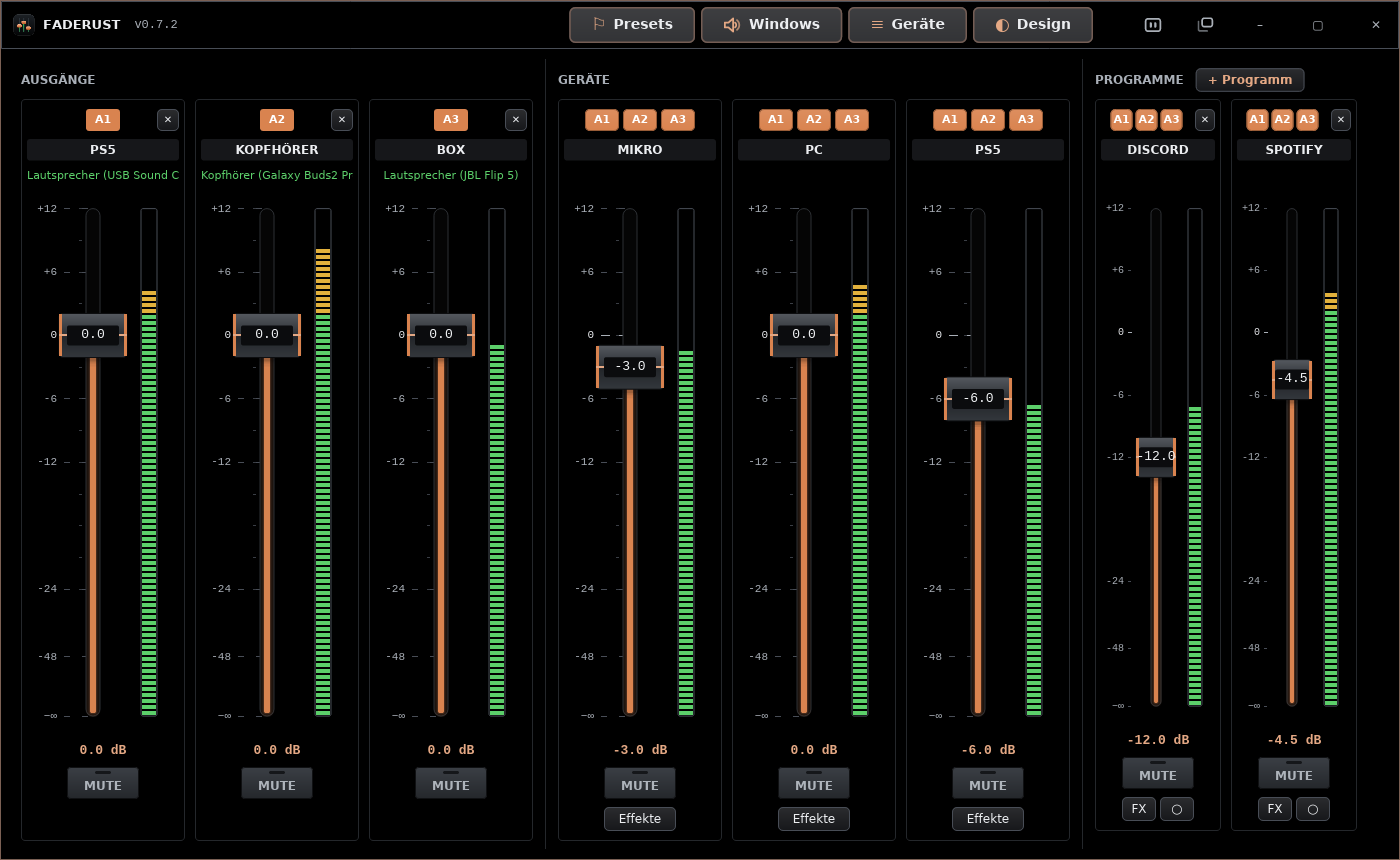
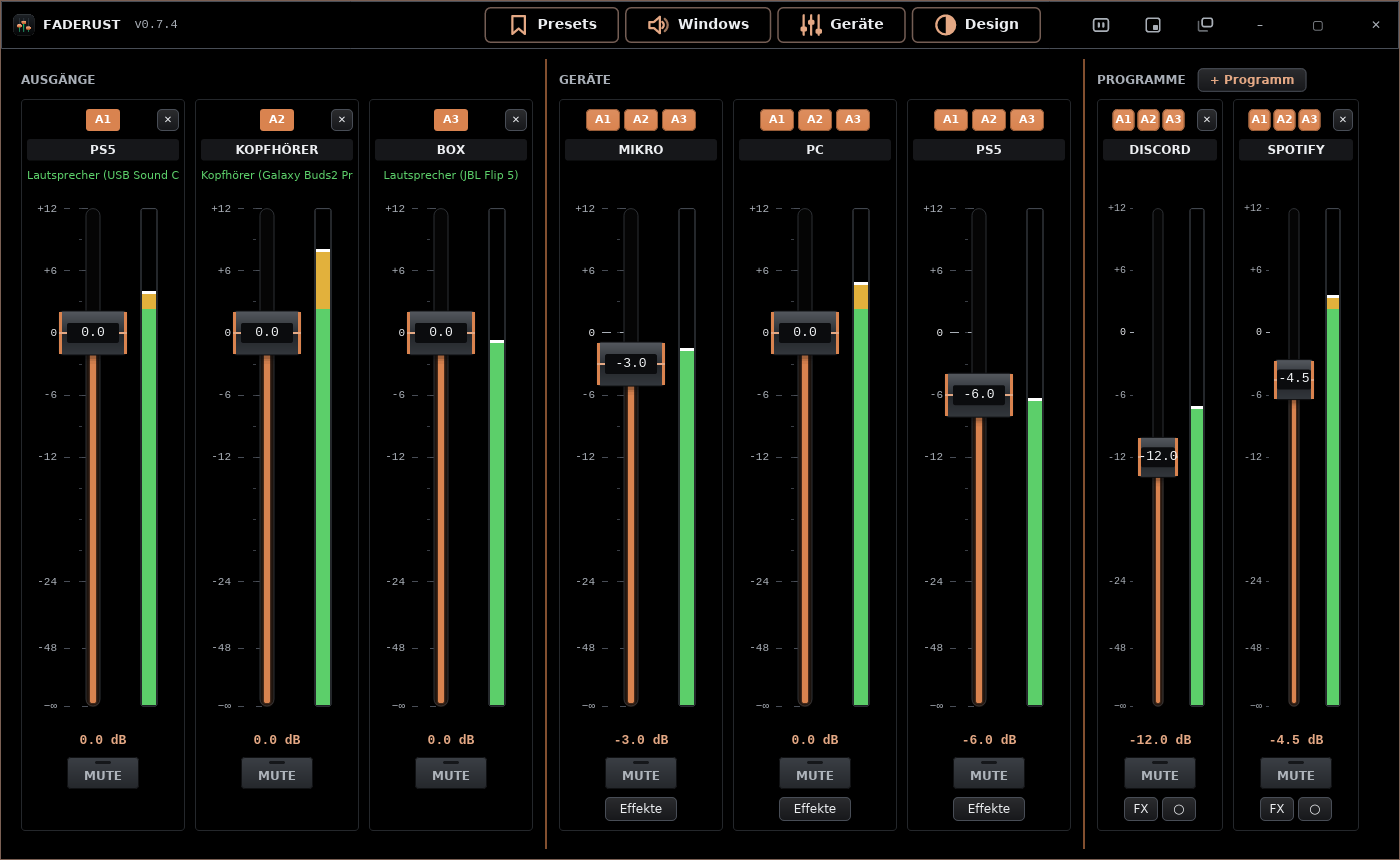
Screenshots neu (0.7.4) und Bilder aller Einstellungsfenster (#183)
* Screenshots für 0.7.4 neu und Bilder aller Einstellungsfenster in der README

* Design-Dialog nur einmal, Protokoll und Selbsttest aus der Galerie

diff --git a/README.de.md b/README.de.md
@@ -59,6 +59,28 @@
   </tr>
 </table>
 
+## Einstellungsfenster
+
+<table>
+  <tr>
+    <td width="50%" valign="top"><img src="assets/dialog-presets.png" alt="Presets"><br><b>Presets</b><br>Fader, Stumm und Effekte aller Eingänge speichern und laden.</td>
+    <td width="50%" valign="top"><img src="assets/dialog-windows.png" alt="Windows"><br><b>Windows</b><br>Standardgeräte und Lautstärken von Windows.</td>
+  </tr>
+</table>
+
+<table>
+  <tr>
+    <td width="50%" valign="top"><img src="assets/dialog-devices.png" alt="Geräte"><br><b>Geräte</b><br>Eingänge, Ausgänge, Freigabezeit und Faderust Kabel.</td>
+    <td width="50%" valign="top"><img src="assets/dialog-apps.png" alt="Programme"><br><b>Programme</b><br>Programme einem Kabel zuweisen und als Eingang hinzufügen.</td>
+  </tr>
+</table>
+
+<table>
+  <tr>
+    <td width="50%" valign="top"><img src="assets/dialog-effects.png" alt="Effekte"><br><b>Effekte</b><br>Rauschfilter, Low-Cut, EQ, Gate und Ducking.</td>
+  </tr>
+</table>
+
 ## Installation
 
 1. Unter [Releases](https://github.com/Niklas970/faderust/releases/latest) die Datei `Faderust_*_x64-setup.exe` laden und starten. Das Setup braucht keine Admin-Rechte und spricht Deutsch oder Englisch.

diff --git a/README.md b/README.md
@@ -59,6 +59,28 @@
   </tr>
 </table>
 
+## Settings windows
+
+<table>
+  <tr>
+    <td width="50%" valign="top"><img src="assets/dialog-presets.png" alt="Presets"><br><b>Presets</b><br>Save and load fader, mute and effects of all inputs.</td>
+    <td width="50%" valign="top"><img src="assets/dialog-windows.png" alt="Windows"><br><b>Windows</b><br>Default devices and volumes of Windows.</td>
+  </tr>
+</table>
+
+<table>
+  <tr>
+    <td width="50%" valign="top"><img src="assets/dialog-devices.png" alt="Devices"><br><b>Devices</b><br>Inputs, outputs, release time and Faderust Cable.</td>
+    <td width="50%" valign="top"><img src="assets/dialog-apps.png" alt="Programs"><br><b>Programs</b><br>Assign programs to a cable and add them as inputs.</td>
+  </tr>
+</table>
+
+<table>
+  <tr>
+    <td width="50%" valign="top"><img src="assets/dialog-effects.png" alt="Effects"><br><b>Effects</b><br>Noise filter, low-cut, EQ, gate and ducking.</td>
+  </tr>
+</table>
+
 ## Installation
 
 1. Download `Faderust_*_x64-setup.exe` from [Releases](https://github.com/Niklas970/faderust/releases/latest) and run it. The setup needs no admin rights and speaks German or English.
